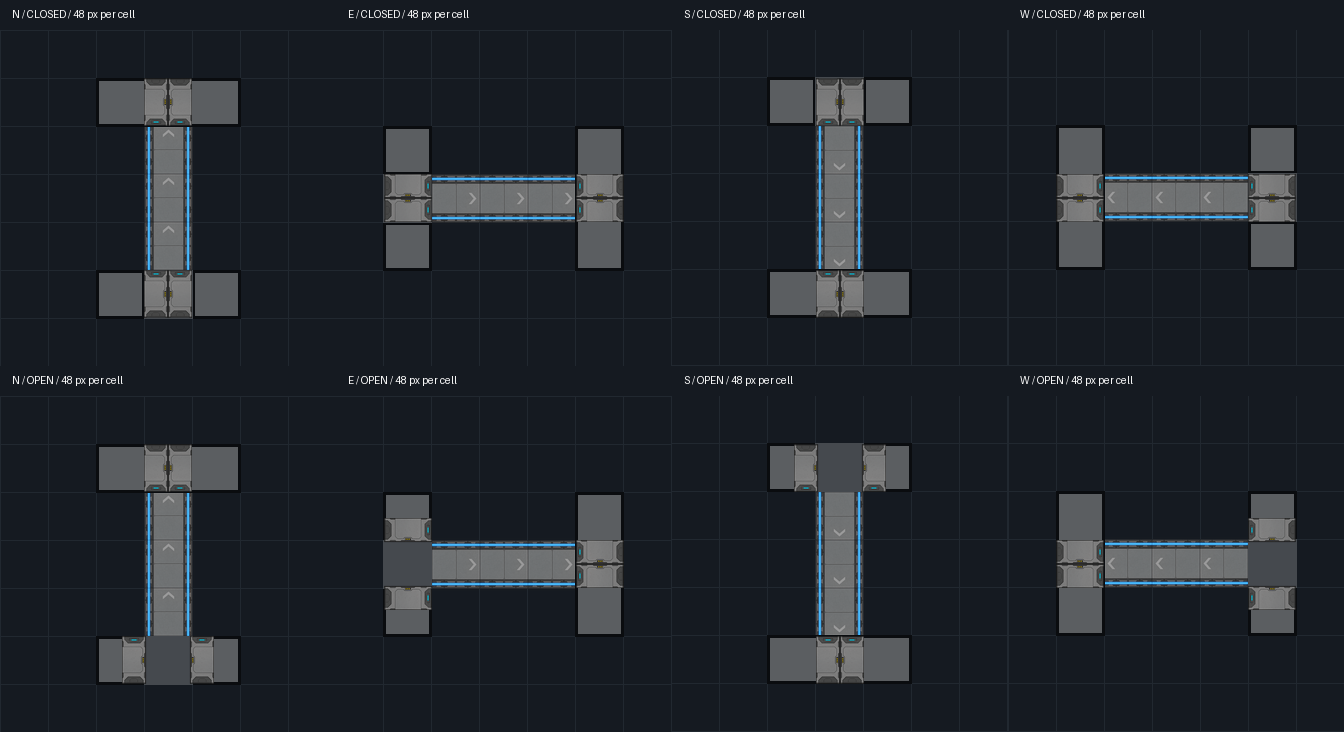
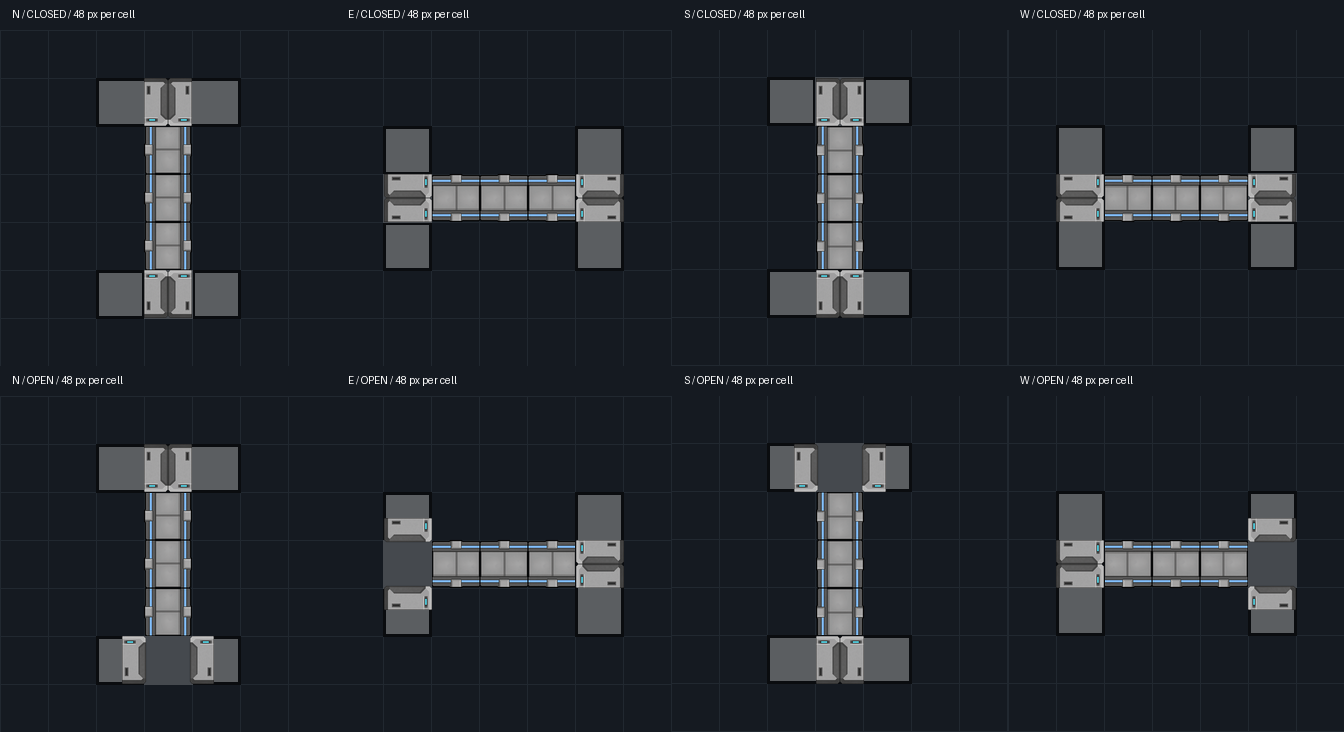
Refresh docking art to match vanilla RimWorld style

diff --git a/scripts/build_docking_icon.py b/scripts/build_docking_icon.py
@@ -1,0 +1,15 @@
+"""Mirror the production door leaf exactly as the vanilla closed-door draw does."""
+from pathlib import Path
+
+from PIL import Image, ImageOps
+
+ROOT = Path(__file__).resolve().parents[1]
+ART = ROOT / "1.6/Textures/Things/Building/Docking"
+
+leaf = Image.open(ART / "DockingPort_Mover.png").convert("RGBA")
+assert leaf.width == leaf.height
+icon = Image.new("RGBA", leaf.size)
+icon.alpha_composite(leaf)
+icon.alpha_composite(ImageOps.mirror(leaf))
+icon.save(ART / "DockingPort_MenuIcon.png")
+print(ART / "DockingPort_MenuIcon.png")

diff --git a/doc/美术资源施工表.md b/doc/美术资源施工表.md
@@ -32,7 +32,7 @@
 | 导弹与轨道炮弹 | 高爆导弹有独立北向弹体图，并与导弹架待发中层共用；轨道炮弹暂借原版 `Bullet_Big`；未来导弹可共用外壳，以蓝／黄／黑区分 EMP／高爆／纯动能战斗部 | 高爆导弹完成；轨道炮弹待制作 | 高爆导弹已随导弹系统通过游戏内验证；EMP／动能待战斗部 Def 确定，纯动能黑色须有浅色边缘 |
 | 战斗表现 | 导弹点火尾焰与持久烟迹、实弹炮口闪光、爆炸烟云与穿甲火花均复用原版 mote 贴图并由宇宙前台层定位绘制 | 已接入；待游戏验证 | 检查聚焦/非聚焦图、不同缩放与多弹在飞的尺寸、亮度、层序和性能 |
 | Prefab Pawn 标记 | 独立蓝色人形菱形图标，地图与「地板」建造栏共用；与 VEF prefab 标记区分 | 已接入；待游戏验证 | 检查建造栏与地图上缩略可辨 |
-| 对接口 | 灰色双滑门叶、完整建造图标、蓝色力场边缘甲板；单格宽，方向随建筑旋转 | 已接入；待游戏验证 | 四向、门开关终态、连续通道接缝、48 像素缩图与非聚焦船壳 |
+| 对接口 | 对照原版自动门／奥德赛舰壳重绘的灰色门叶、镜像合成图标、实心甲板与蓝色侧轨；单格宽，方向随建筑旋转 | 原版参考修订稿已接入；待游戏验证 | 已检查透明度、闭门拼缝、四向开关门及 48 像素连续拼接；游戏内复核地图与非聚焦船壳 |
 | 月池 | 程序月池图集 | 待制作 | 单独处理连接图集 |
 | 跳帮艇 | 3×5 单张北向俯视图，`Graphic_Single` 四向旋转；宽钝撞角、深色乘员舱、双侧舱门、双尾喷口，撞角局部黄黑警示；专用建造图标由原图顺时针旋转为朝右的 5×3 横向画布 | 已接入；待游戏验证 | 核对四向、建造图标比例与朝向、月池停靠、飞行船壳与撞击后贴图 |
 | 护盾 | 固定灰色底座 `ShieldGenerator.png` 与独立青色旋转投射器 `ShieldProjector.png`（均为 256²）；两层合成的建造图标；C 线盾 `ShieldField.png`（512×128 横向拉伸），动能／电磁材质与选中提示按模式区分（见护盾机制基线） | 已接入；待游戏验证 | 四向建造、投射器随线盾角度旋转及取消回滚、盾线正面、聚焦／非聚焦层级、地面圆盾叠画、模式色辨识与同屏多盾不串色 |
@@ -142,6 +142,8 @@
 
 ## 对接口与力场通道（2026-10-16）
 
-- 用户选定灰色机械气闸、可见甲板与蓝色力场边缘；正式资源位于 `1.6/Textures/Things/Building/Docking/`：`DockingPort_Mover.png` 为左半门叶，原版 `DrawMovers` 负责镜像另一扇与滑动；`DockingPort_MenuIcon.png` 为完整闭门图，用于菜单和保留朝向的建造蓝图；`DockingChannel.png` 为朝北连续甲板。三张均由内置 image_gen 生成并保留透明度，最终提示词见 `doc/art/Docking_generation_prompts.txt`。
-- 原始画布均为 1254×1254。通道 alpha≥128 主体范围 `(98,68)..(1156,1186)`；Def `drawSize=(1.19,1.12)` 补偿透明边距，使连续甲板可见尺寸约为 1×1 格。门叶画布左半为实体、右半透明，使用原版单格门尺寸和 0.45 格开门位移。未对正式图做生成式轴心修正或代码重绘。
-- `scripts/preview_docking_art.py` 只生成 QA 预览，不修改正式贴图；`doc/art/Docking_four_directions.png` 按实际 Def 尺寸、每格 48 像素模拟四向闭门／全开与连续三格通道，已检查 alpha、中心与接缝。原版地图、非聚焦外壳及真空通行仍待游戏内验证；机制与验收分别见星区架构和 TODO。
+- 用户选定灰色机械气闸、可见甲板与蓝色力场边缘；按反馈重新查看统一参考目录 `RimWorldArt` 下的原版自动门、奥德赛防爆门、舰壳、基架、小推进器、装甲炮塔及逆重护盾，并将自动门／舰壳／推进器原图与参考拼图作为生成输入。参考图仅供风格观察，PSD 合并预览与拼图位于忽略的 `references/ArtQA/`，不复制进正式贴图。
+- 正式资源位于 `1.6/Textures/Things/Building/Docking/`：`DockingPort_Mover.png` 以浅灰主体、宽深灰锁合面、小青色指示灯和下部执行器槽表达机械结构，去掉嵌套装甲圈与黄黑条纹；原版 `DrawMovers` 负责镜像另一扇与滑动。`DockingChannel.png` 用实心甲板、一道横接缝、蓝色侧轨与每侧一个中部支架，去掉重复倒角固定件、蜂窝和箭头。两张由内置 image_gen 生成，最终提示词及所用参考见 `doc/art/Docking_generation_prompts.txt`。
+- `DockingPort_MenuIcon.png` 用于菜单和保留朝向的建造蓝图；按用户明确指定，由 `scripts/build_docking_icon.py` 将正式门叶与其水平镜像在同一画布合成，和闭门绘制一致。生成式完整图标及早期通道稿因内部透明缺陷弃用；正式通道重新写提示词从头生成，没有脚本补绘或修复透明度。
+- 正式画布均为 1254×1254。通道 alpha≥128 主体范围 `(108,110)..(1146,1139)`（右下坐标不包含），中心甲板纵向范围 `y=126..1122`；Def `drawSize=(1.209,1.258)` 补偿透明边距，使宽度与连续甲板长度约为 1 格，护轨端部在接缝处少量重叠，逻辑占地不变。门叶画布左半为实体、右半透明，仍使用原版单格门尺寸和 0.45 格开门位移。
+- `scripts/preview_docking_art.py` 只生成 QA 预览，不修改正式贴图；`doc/art/Docking_four_directions.png` 按实际 Def 尺寸、每格 48 像素模拟四向闭门／全开与连续三格通道。已检查甲板内部透明度、中心与接缝；`Docking_style_comparison.png` 对比上一版与当前原版参考稿的同尺度效果；`references/ArtQA/Docking_vanilla_style_check.png` 把原版自动门／舰壳和新版按每格 64 像素并排检查。新版地图与非聚焦船壳显示待游戏内复核；机制与验收分别见星区架构和 TODO。

diff --git a/README.md b/README.md
@@ -91,7 +91,7 @@ dotnet build Source/DeltaV.csproj -c Release
 
 ## 已知限制
 
-- 基架归属体系与「修改基架归属」命令仍待系统实测。对接口机制与专属门叶／图标／力场通道贴图已接入（2026-10-16）；四向开门、气密通行、破损收回、三船选择性脱离、存读档与非聚焦船壳显示仍待游戏内验收。
+- 基架归属体系与「修改基架归属」命令仍待系统实测。对接口机制与专属门叶／图标／力场通道贴图已接入（2026-10-16）；美术已对照原版自动门与奥德赛建筑重新生成，采用灰色门板、宽锁合面、实心甲板及蓝色侧轨，新版显示待游戏内复核。四向开门、气密通行、破损收回、三船选择性脱离、存读档与非聚焦船壳显示仍待游戏内验收。
 - 通用地图 prefab 的静态结构与标记展开曾通过游戏实测；逐实例状态重建（电量、装填、第三方 Comp 等）尚待游戏验收。旧版 prefab 文件须重新导出。内部引用重定向到本次新实例，旧地图、Pawn 和任务的外部引用清空；依赖自定义全局注册表的第三方状态需单独适配。详见 [Prefab 状态重建](doc/Prefab状态重建.md)。
 - 需要游戏存在轨道层（Odyssey 开局自带；非 Odyssey 开局会明确报错）。
 - 星区内容类型树配置与 POI 身份生成（2026-09-30：设置「生成」页每叶子保底数/分段额外量/prefab 池；marker 生成时随机派系 + RulePack 完整名「词干+类型名+(派系名) #ID」；物化 prefab-only——池空的类型报错跳过、池失效取消该 POI，物化顺序「容器先注册、结构后铺设」使带驾驶台敌舰/空间站正确认领成船、归属名 = 生成时完整名，归档→再物化名称与派系传承），**POI 基础功能已由用户在游戏内验证（2026-10-02）**；以下细项仍待逐项验收：设置 tab 编辑与持久化、树形展示、池勾选、新星区按配置生成、marker 标注显示完整名与随机派系、物化走 prefab（尺寸/旋转/认领/命名）、敌舰可被索敌交战、残骸为无主结构、归档折返名称派系保留、池空报错不生成、池失效取消。NPC 舰船 AI 核心流程已由用户验证，细项待验收；伴生物（同派系伴生对象、生成点蓝图）仍只留设计。推进器动力默认模型已读自身实际状态（故障/排气堵塞/断电）；VEF 管道/电推与 VGE 燃料条件仍留接口（VGE 的燃料检查挂在原版 `CanBeActive` 上，与"非玩家派系无引擎也可飞"的一致性模型冲突，将来经 `ThrusterPower.Model` 兼容层实现）。
